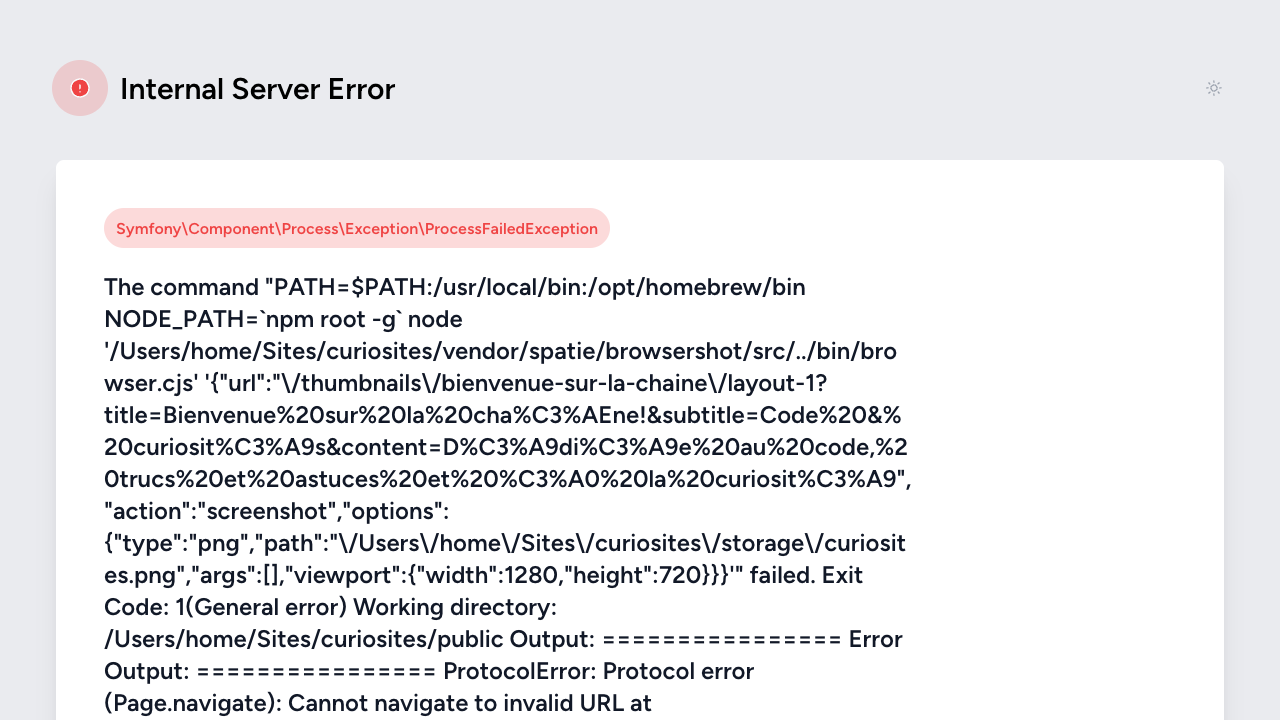
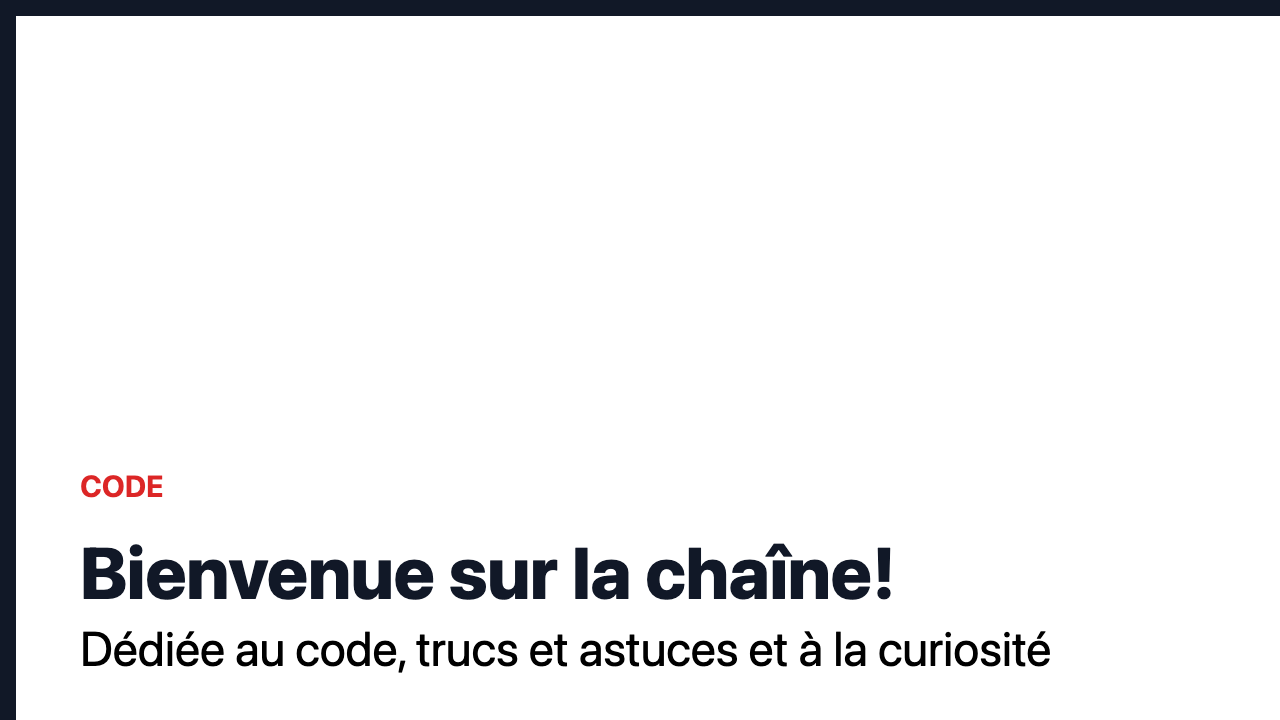
Update divers windows size

Changed region(s): [[0.0, 0.0, 1.0, 1.0], [0.9375, 0.275, 0.9688, 1.0]]

diff --git a/routes/web.php b/routes/web.php
@@ -9,6 +9,6 @@ Route::view('/', 'home/index')->name('home.index');
 
 Route::view('/thumbnails/{slug}/{layout}', 'thumbnails/show')->name('thumbnail.show');
 
-// Browsershot::url('https://curiosites.test/thumbnails/bienvenue-sur-la-chaine/layout-1?title=Bienvenue%20sur%20la%20cha%C3%AEne!&subtitle=Code%20&%20curiosit%C3%A9s&content=D%C3%A9di%C3%A9e%20au%20code,%20trucs%20et%20astuces%20et%20%C3%A0%20la%20curiosit%C3%A9')
-//     ->windowSize(1280, 720)
-//     ->save(storage_path('curiosites.png'));
+Browsershot::url('https://code-et-curiosites.ch/thumbnails/bienvenue-sur-la-chaine/layout-1?title=Bienvenue%20sur%20la%20cha%C3%AEne!&subtitle=Code%20&%20curiosit%C3%A9s&content=D%C3%A9di%C3%A9e%20au%20code,%20trucs%20et%20astuces%20et%20%C3%A0%20la%20curiosit%C3%A9')
+    ->windowSize(1280, 720)
+    ->save(storage_path('curiosites.png'));

diff --git a/resources/views/components/layouts/layout-1.blade.php b/resources/views/components/layouts/layout-1.blade.php
@@ -5,7 +5,7 @@
         @vite('resources/css/app.css')
     </head>
     <body class="min-h-screen grid place-items-center p-4 bg-gray-900">
-        <div class="w-[1280px] h-[720px] bg-white">
+        <div class="bg-white">
             <section class="overflow-hidden">
                 <div class="p-16 h-full flex flex-col justify-end">
                     <p class="uppercase text-3xl font-bold text-red-600">{{ $subtitle }}</p>

diff --git a/resources/views/components/layouts/layout-2.blade.php b/resources/views/components/layouts/layout-2.blade.php
@@ -5,7 +5,7 @@
         @vite('resources/css/app.css')
     </head>
     <body class="min-h-screen grid place-items-center p-4 bg-gray-900">
-        <div class="w-[1280px] h-[720px] bg-white">
+        <div class="bg-white">
             <section class="overflow-hidden">
                 <div class="p-16 h-full flex flex-col justify-end">
                     <p class="uppercase text-3xl font-bold text-red-600">{{ $subtitle }}</p>
